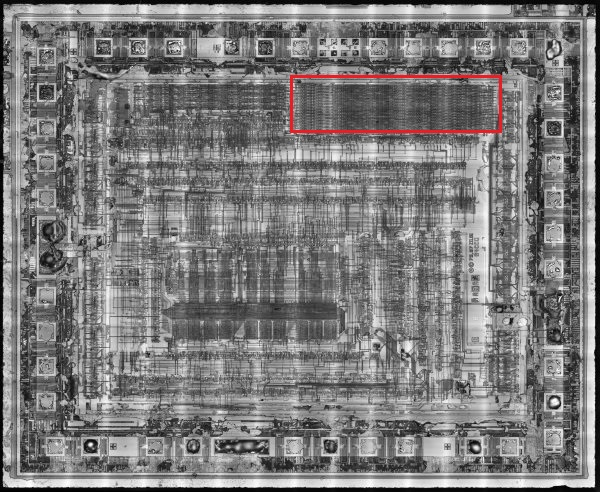
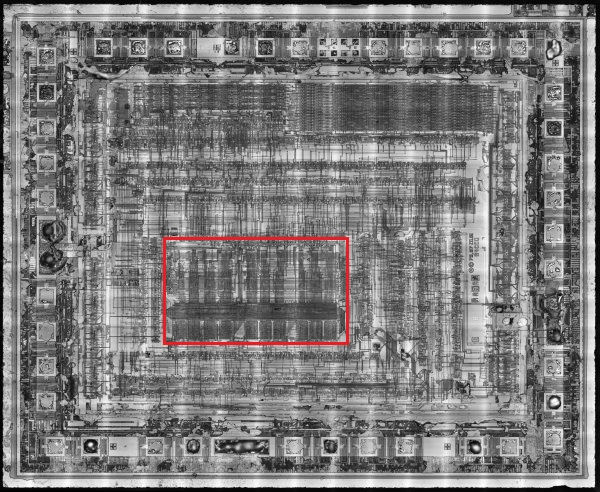
Уточнено положение декодера

Changed region(s): [[0.27, 0.4573, 0.6, 0.7012], [0.48, 0.1524, 0.84, 0.2744]]

diff --git a/Z80/rails.md b/Z80/rails.md
@@ -1,12 +1,12 @@
 # Межсоединения
 
-## Соединения между Декодером и Верхней Логикой
+## Верхние Соединения
 
 ![locator_rails1](imgstore/locator_rails1.jpg)
 
 ![rails1](imgstore/rails1.jpg)
 
-## Соединения между Верхней Логикой и Низом
+## Нижние Соединения
 
 ![locator_rails2](imgstore/locator_rails2.jpg)
 

diff --git a/Z80/decoder.md b/Z80/decoder.md
@@ -1,5 +1,7 @@
 # Декодер
 
+Расположен по середине чипа и занимает приличный кусок по площади.
+
 ![locator_decoder](imgstore/locator_decoder.jpg)
 
 ![decoder](imgstore/decoder.jpg)
